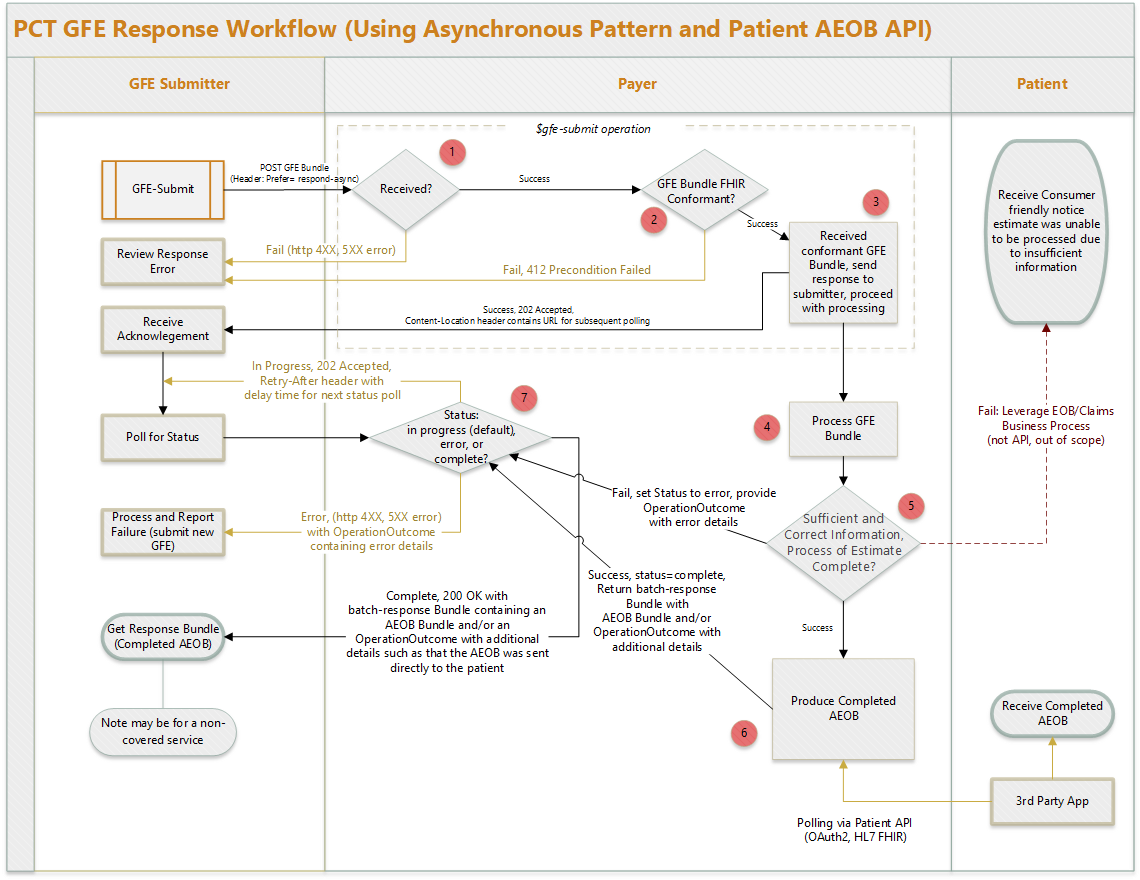
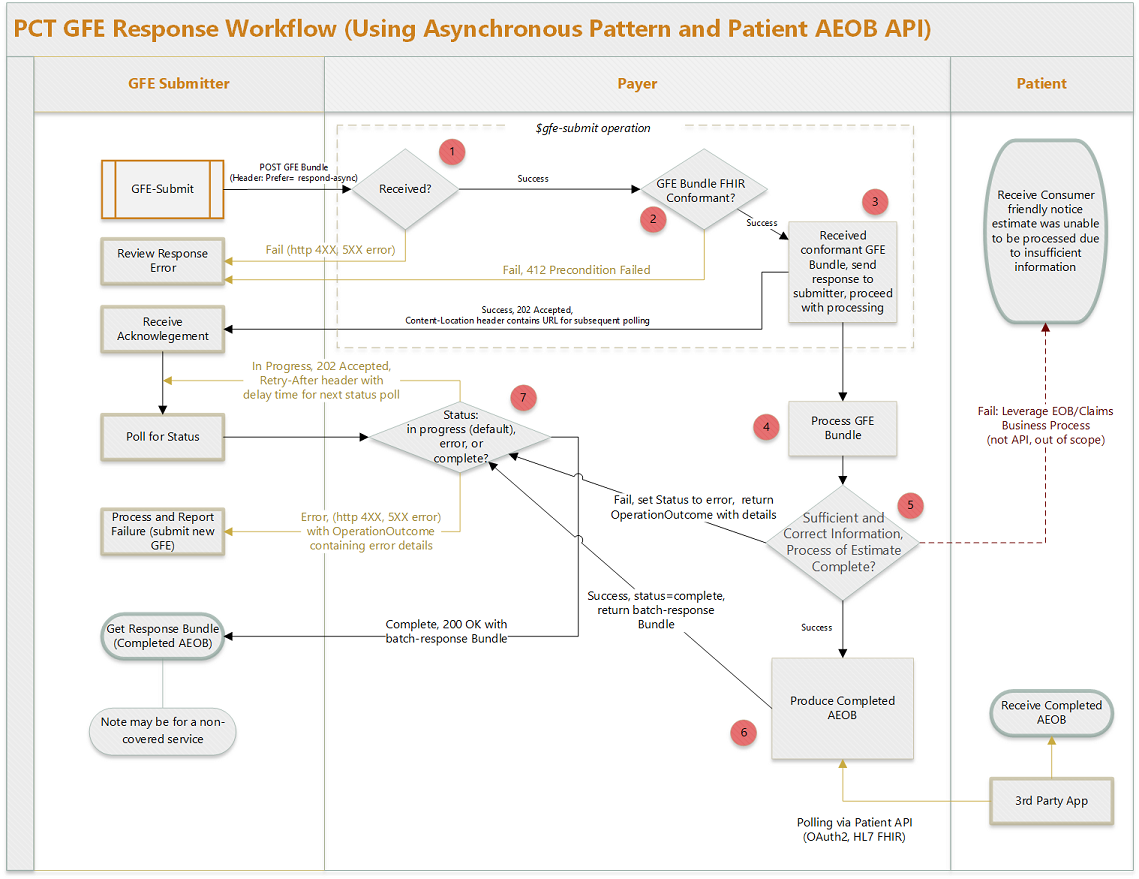
Updated Capability statement adding additional expectation extensions. Updated use_cases.md per Vanessa's edits.

diff --git a/input/pagecontent/use_cases.md b/input/pagecontent/use_cases.md
@@ -1,44 +1,44 @@
 ### Use Case Overview
 
-This guide provides specifications enabling a provider to submit a Good Faith Estimate (GFE) Bundle including one or more Good Faith Estimates (Claim resources of type predetermination) along with supporting data (such as Patient, Coverage, etc.) to a payer. The payer can then use this information to generate an Advanced Explanation of Benefit Bundle including one or more Advanced Explanation of Benefits (ExplanationOfBenefit resources of type predetermination) along with supporting data that the patient, and possibly the GFE Bundle submitting provider, can retrieve to get an estimation of costs.  
+This guide provides specifications enabling a provider to submit a Good Faith Estimate (GFE) Bundle including Good Faith Estimate resource profiles (Claim resources of type predetermination) along with supporting data (such as Patient, Coverage, etc.) to a payer. The payer can then use this information to generate an Advanced Explanation of Benefit (AEOB) Bundle including one or more Advanced Explanation of Benefits resource profiles (ExplanationOfBenefit resources of type predetermination) along with supporting data that the patient and  provider can retrieve to get an estimation of costs for expected services as known at a specific point in time.  
 
-The primary use case for this guide is to enable the patient to have access to AEOBs for potential future medical services or items. Sharing this information with the original submitting provider may also be useful in facilitating conversations between patients and providers about their care and options. If this capability is supported by the implementer, the patient’s AEOB will be provided to the submitting provider using the same profiles in this guide. 
+The primary use case for this guide is to enable the patient to have access to AEOBs for expected future medical items or services. Sharing this information with the provider is also supported as an option. This enables the provider to have an informed conversation with the patient to support better patient decision making.  If this capability is supported by the implementer, the patient’s AEOB will be provided to the GFE submitting provider using the same profiles in this guide. In this way the provider would receive the same information made available to the patient. 
 
 This guide does not currently specify a means for providers to update or cancel a GFE submission. Rather, if there is new information that may materially affect the estimation, the provider would submit a new GFE Bundle.
 
 ### Payer Perspective: End-to-End Workflow
 
-The workflow diagram below describes the process of receiving a GFE Bundle from the conviening provider and returning the completed AEOB asyncrhonously (or acknowledgement that the process was completed if the AEOB will not be returned to the provider), as well as the process for a patient to query for and retrieve their completed AEOB, if supported.
+The workflow diagram below describes the process of receiving a GFE Bundle from the submitting provider and returning the completed AEOB asynchronously (or acknowledgement that the process was completed if the AEOB will not be returned to the provider), as well as the process for a patient app to query for and retrieve their completed AEOB.
 
 ![Payer Perspective](PCTWorkflowPayer.png){:style="float: none;"}
 
 **Figure 1: Payer Perspective: End-to-End Workflow**
 
-1. The provider uses the gfe-submit operation to submit the GFE bundle to the payer endpoint. This is a POST request that follows the [Asynchronous Interaction Request Pattern](http://build.fhir.org/async-bundle.html). Please refer to that page for more details. Note: that page is part of the FHIR R5 current build, but uses no R5 resources, this guide is simply pre-adopting that HTTP request pattern. 
+1. The provider uses the gfe-submit operation to submit the GFE bundle to the payer endpoint. This is a POST request that follows the [Asynchronous Interaction Request Pattern](http://build.fhir.org/async-bundle.html). Please refer to this link for more details. Note: This page is part of the FHIR R5 current build, but uses no R5 resources, this guide is simply pre-adopting that HTTP request pattern. 
   * If the payer's FHIR aware endpoint does not receive the request (i.e. system is down, incorrect URL used, etc.) an HTTP status code of 4XX or 5XX will be returned. 
-  * If the gfe-submit operation was successfully invoked, the request will move to step 2. 
-2. The payer system will validate the GFE bundle against the FHIR R4 core specification and the GFE Bundle profile and other appropriate profiles in this guide, using the core FHIR [validate](http://hl7.org/fhir/resource-operation-validate.html) operation. 
-  * If any validation errors are received, an HTTP status code of 412 Precondition Failed will be returned along with an OperationOutcome resource containing the result of the validate operation. 
-  * If validation is successful, the request will move to step 3. 
-3. The payer system accepts the GFE bundle. An HTTP status code of 202 Accepted will be returned, and the Content-Location header will contain a URL for subsequent polling. 
-4. The payer system begins processing the GFE bundle asynchronously. This may take a substantial amount of time, up to the limits allowed by regulation. 
+  * If the gfe-submit operation is successfully invoked, the request will move to step 2. 
+2. The payer system validates the GFE bundle against the FHIR R4 core specification and the GFE Bundle profile and other appropriate profiles in this guide, using the core FHIR [validate](http://hl7.org/fhir/resource-operation-validate.html) operation. 
+  * If any validation errors are received, an HTTP status code of 412 Precondition Failed is returned along with an OperationOutcome resource containing the result of the validate operation. 
+  * If validation is successful, the request will move to Step 3. 
+3. The payer system accepts the GFE bundle. An HTTP status code of 202 Accepted is returned, and the Content-Location header  contains a URL for subsequent polling. 
+4. The payer system begins processing the GFE bundle asynchronously to produce the AEOB. Some payers may process GFEs in near real time, which this guide can support, but more likely this process will take a substantial amount of time, up to the limits allowed by regulation. 
 5. GFE processing can result in success or failure. 
-  * In case of failure, the payer system will set the status of the request (identified by the unique URL returned in step 3) to error, and prepare an OperationOutcome resource with details and move to step 7. The payer should also notify the patient that the estimate was unable to be produced using existing business processes, though this is out of scope for this guide. 
-  * If successful, move to step 6. 
-6. GFE processing has completed successfully and produced an AEOB and related resources. 
-  * The payer system will set the status of the request (identified by the URL returned in step 3) to completed, prepare a batch-response Bundle resource, and move to 7 below. 
-  * If the payer system supports API access for the patient, the AEOB will be accessbile per the Patient Perspective section below. 
-7. The payer system will provide an endpoint at the URL provided in step 3 whereby the provide can poll for the status of GFE processing.   
-  * If the response is in-progress, the endpoint will return an HTTP status code of 202 Accepted, indicating that the provider should poll again later. The payer system should return a Retry-After header with each in-progress polling response, and the client should use this information to inform the timing of the next polling request. 
-  * If the response is an error, the endoint will return an HTTP status code of 4XX or 5XX, and the body of the response will be an OperationOutcome detailing the error. 
-  * If the response is successful, the endpoint will return an HTTP status code of 200 OK, and the body of the request will be a Bundle resource of type batch-response. This batch-response bundle SHOULD contain the completed AEOB Bundle and MAY contain one or more OperationOutcome resources with additional information regarding GFE/AOEB processing. If the batch-response Bundle does not contain an AEOB Bundle, then it SHALL contain at least one OperationOutcome resource detailing the reason why the AEOB Bundle is not present (e.g. the AEOB was sent directly to the patient and will not be returned to the provider). 
+  * In case of failure, the payer system sets the status of the request (identified by the unique URL returned in step 3) to error, and prepare an OperationOutcome resource with details and move to Step 7. The payer should also notify the patient that the estimate was unable to be produced leveraging similar existing EOB/Claims business processes, though this communication to the patient is out of scope for this guide. 
+  * If successful, move to Step 6. 
+6. GFE processing completes successfully and the payer produces an AEOB and related resources. 
+  * The payer system sets the status of the request (identified by the URL returned in step 3) to completed, prepare a batch-response Bundle resource, and move to Step 7 below. 
+  * If the payer system supports API access for the patient, the AEOB is made accessbile per the Patient Perspective section below. 
+7. The payer system provides an endpoint at the URL provided in Step 3 whereby the provide can poll for GFE processing status.   
+  * If the response is in-progress, the endpoint returns an HTTP status code of 202 Accepted, indicating that the provider should poll again later. The payer system should return a Retry-After header with each in-progress polling response, and the client should use this information to inform the timing of the next polling request. 
+  * If the response is an error, the endpoint returns an HTTP status code of 4XX or 5XX, and the body of the response is an OperationOutcome detailing the error. 
+  * If the response is successful, the endpoint returns an HTTP status code of 200 OK, and the body of the request is a Bundle resource of type batch-response. This batch-response bundle SHOULD contain the completed AEOB Bundle and MAY contain one or more OperationOutcome resources with additional information regarding GFE/AEOB processing. If the batch-response Bundle does not contain an AEOB Bundle, then it SHALL contain at least one OperationOutcome resource detailing the reason why the AEOB Bundle is not present (e.g. the AEOB was sent directly to the patient and will not be returned to the provider). 
 
 
 The individual steps from the provider and patient perspective are detailed in the sections below. 
 
 ### Provider Perspective: Submitting a GFE and Polling for a Completed AEOB
 
-A patient schedules a service which triggers the composition of a collection of 1 or more GFEs, which the provider then submits to the payer for processing. Note: The composition of the collection of GFEs is currently not in scope for this IG. In other words, how the scheduling provider coordinates with other providers is currently not in scope for this IG. 
+A patient schedules a service and this triggers the composition of a collection of one or more GFEs, which the provider then submits to the payer for processing. Note: The composition of the collection of GFEs is currently not in scope for this guide.
 
 ![Provider Perspective](PCTWorkflowProvider.png){:style="float: none;"}
 
@@ -46,23 +46,23 @@ A patient schedules a service which triggers the composition of a collection of 
 
 1. The provider uses the gfe-submit operation to submit the GFE bundle to the payer endpoint. This is a POST request that follows the [Asynchronous Interaction Request Pattern](http://build.fhir.org/async-bundle.html). Please refer to that page for more details. Note: that page is part of the FHIR R5 current build, but uses no R5 resources, this guide is simply pre-adopting that HTTP request pattern. 
   * If successful this request will return an HTTP status code of 202 Accepted with a Content-Location header containing the absolute URL of an endpoint for subsequent status requests (polling location). 
-  * If the operation fails it will return an HTTP status code of 4XX or 5XX and an OperationOutcome resource containing the error details (such as a 412 Precondition Failed if the content of the POST was not a valid GFE Bundle), provided the operation was successfuly invoked (i.e. if the POST was submitted to a non-existant URL, the submitter would likely receive a 404 Not Found status code with no OperationOutcome). 
+  * If the operation fails it will return an HTTP status code of 4XX or 5XX and an OperationOutcome resource containing the error details (such as a 412 Precondition Failed if the content of the POST was not a valid GFE Bundle), provided the operation was successfully invoked (i.e. if the POST was submitted to a non-existent URL, the submitter would likely receive a 404 Not Found status code with no OperationOutcome). 
 
-2. If step 1 resulted in a 202 Accepted return code and a valid URL in the Content-Location header, the provider may now poll for the status of the request. The AEOB bundle is created asynchronously since GFE processing and adjudication has not taken place yet. The url returned in step 1 can now be used to check the status of the AEOB process. 
+2. If step 1 resulted in a 202 Accepted return code and a valid URL in the Content-Location header, the provider may now poll for the status of the request. The AEOB Bundle is created asynchronously since GFE processing has not taken place yet. The url returned in Step 1 can now be used to check the status of the AEOB process. 
   * If the response is in-progress, this request will return an HTTP status code of 202 Accepted, indicating that the provider should poll again later. The payer system should return a Retry-After header with each in-progress polling response, and the client should use this information to inform the timing of the next polling request. 
   * If the response is an error, this request will return an HTTP status code of 4XX or 5XX, and the body of the response will be an OperationOutcome detailing the error. 
-  * If the response is successful, this request will return an HTTP status code of 200 OK, and the body of the request will be a Bundle resource of type batch-response. This batch-response bundle SHOULD contain the completed AEOB Bundle and MAY contain one or more OperationOutcome resources with additional information regarding GFE/AOEB processing. If the batch-response Bundle does not contain an AEOB Bundle, then it SHALL contain at least one OperationOutcome resource detailing the reason why the AEOB Bundle is not present (e.g. the AEOB was sent directly to the patient and will not be returned to the provider). 
+  * If the response is successful, this request will return an HTTP status code of 200 OK, and the body of the request will be a Bundle resource of type batch-response. This batch-response bundle SHOULD contain the completed AEOB Bundle and MAY contain one or more OperationOutcome resources with additional information regarding GFE/AEOB processing. If the batch-response Bundle does not contain an AEOB Bundle, then it SHALL contain at least one OperationOutcome resource detailing the reason why the AEOB Bundle is not present (e.g. the AEOB was sent directly to the patient and will not be returned to the provider). 
 
-### Patient Perspective: Get completed AEOB from payer
+### Patient Perspective: Get Completed AEOB from Payer
 
-The patient has finished scheduling the service(s) with the provider. The payer may return the completed AEOB to the patient in many ways such as via mail, the payer benefits portal, or via an API. The only method in scope for this guide is the FHIR-based API approach inspired by the Patient Access API defined in the [CARIN Consumer Directed Payer Data Exchange](https://build.fhir.org/ig/HL7/carin-bb/Use_Case.html#use-case---consumer-access-to-their-claims-data) guide. Note that use of an API is optional for the payer, and if the payer does implement both this API and the Patient Access API defined in the CARIN IG, it is up to the payer to decide if those APIs use the same or different endpoints. 
+The patient has scheduled the service(s) with the provider. The payer may return the completed AEOB to the patient in many ways such as via mail, the payer patient portal, or via an API. The only method in scope for this guide is the FHIR-based API approach inspired by the Patient Access API defined in the [CARIN Consumer Directed Payer Data Exchange](https://build.fhir.org/ig/HL7/carin-bb/Use_Case.html#use-case---consumer-access-to-their-claims-data) guide (CARIN IG for Blue Button). If the payer does implement both this API and the Patient Access API defined in the CARIN IG, it is up to the payer to decide if those APIs use the same or different endpoints. 
 
 ![Patient Perspective](PCTWorkflowPatient.png){:style="float: none;"}
 
 **Figure 3: Patient Perspective**
 
-1. The a 3rd party app used by the patient authorizes/authenticates and receives an access token. The app requests the AEOB by using the access token using a GET request for ExplanationOfBenefit resources in the patient's compartment. For example, GET [base]/ExplanationOfBenefit?patient=[patient-id]. Payer systems SHALL implement appropriate access controls to ensure that AEOBs are only accessible by the the authenticated patient. 
-  * If successful, the system will return 200 OK and the body will contain a Bundle resource of type searchset, containing zero or more ExplanationOfBenefit resources. Once the desired AEOB is found, the 3rd part app may use the same API to query for other resources referenced by the AEOB, such as Patient, Practitioner, Organization, and Coverage resources if those referenced resources are not contained in the AEOB itself. 3rd party apps should keep track of prior AEOBs, and alert the patient is new ones are found. New AEOBs would have a different identifier, and a created date later than previous AEOBs. 
+1. A third party app used by the patient authorizes/authenticates and receives an access token. The app requests the AEOB by using the access token using a GET request for ExplanationOfBenefit resources in the patient's compartment. For example, GET [base]/ExplanationOfBenefit?patient=[patient-id]. Payer systems SHALL implement appropriate access controls to ensure that AEOBs are only accessible by the authenticated patient. 
+  * If successful, the system will return 200 OK and the body will contain a Bundle resource of type searchset, containing zero or more ExplanationOfBenefit resources. Once the desired AEOB is found, the third party app may use the same API to query for other resources referenced by the AEOB, such as Patient, Practitioner, Organization, and Coverage resources if those referenced resources are not contained in the AEOB itself. New AEOBs (either for new services or new updates to an existing AEOB) would have a different identifier, and a created date later than previous AEOBs. 
   
 Note: If GFE processing fails, the payer may use existing business processes to notify the patient, but this is out of scope for this guide. 
 
